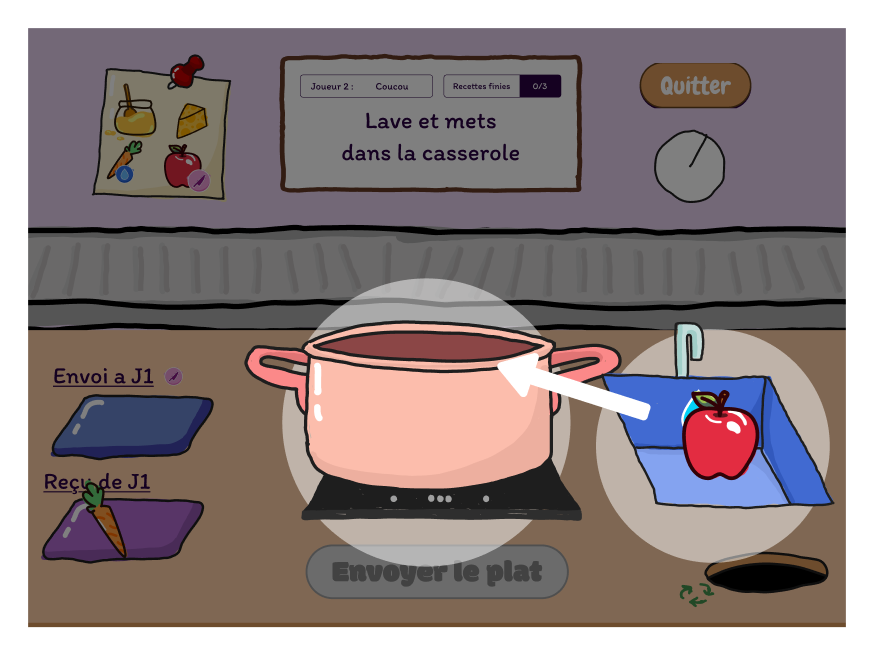
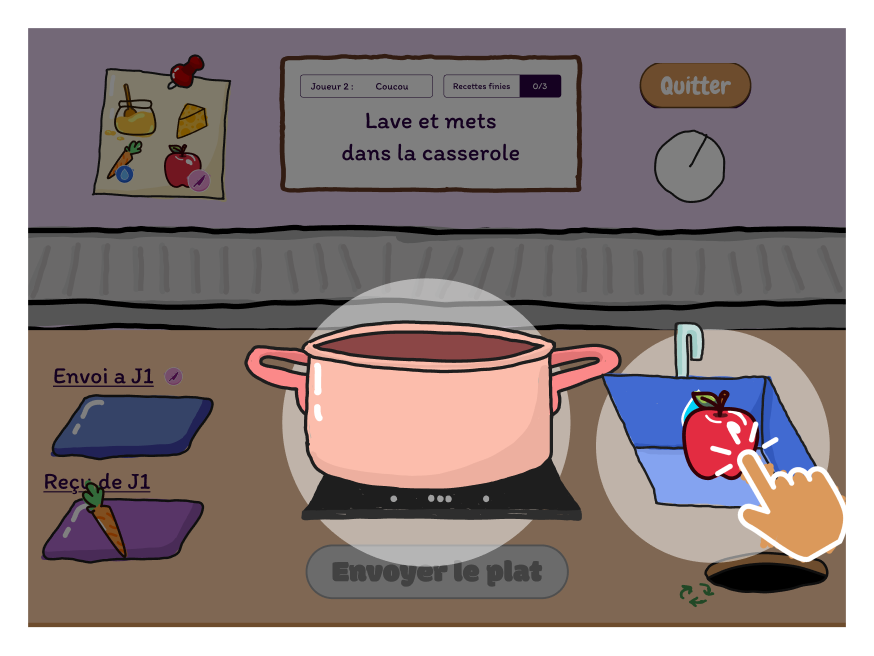
edit + add page tuto

Changed region(s): [[0.8032, 0.6402, 0.9886, 0.8537], [0.5561, 0.5183, 0.7414, 0.6402]]

diff --git a/public/tutosuite.html b/public/tutosuite.html
@@ -98,17 +98,27 @@
                 numSlide++;
                 console.log(numSlide);
                 image.src = "src/img/tutosuite2tableau.png";
-                textbtn.innerHTML = "Place la pomme découpée <br> dans la casserole !"
+                textbtn.innerHTML = "Clique 10 fois rapidement <br> sur la 🍏 pour la couper !"
             } else if (numSlide == 1) {
+                numSlide++;
+                console.log(numSlide);
+                image.src = "src/img/tutosuite2etdemitableau.png";
+                textbtn.innerHTML = "Place la pomme découpée sur la casserole"
+            } else if (numSlide == 2) {
                 numSlide++;
                 console.log(numSlide);
                 image.src = "src/img/tutosuite3tableau.png";
                 textbtn.innerHTML = "Glisse la 🥕 sur la plaque <br>💧 pour que le J2 la lave"
-            } else if (numSlide == 2) {
+            } else if (numSlide == 3) {
+                numSlide++;
+                console.log(numSlide);
+                image.src = "src/img/tutosuite3etdemitableau.png";
+                textbtn.innerHTML = "Ici, J2 pose l'ingrédient <br> lavé ou qui est à couper"
+            }  else if (numSlide == 4) {
                 numSlide++;
                 console.log(numSlide);
                 image.src = "src/img/tutosuite4tableau.png";
-                textbtn.innerHTML = "Si tu n'en veux, tu peux <br> ramener le 🥩 en réserve 🕳"
+                textbtn.innerHTML = "Tu peux ranger 🕳 un ingrédient si tu ne veux pas"
 
                 // ERREUUURRRR J'AI FAIT EN DOUBLE CORRIGER CELA
                 // } else if (numSlide == 3){
@@ -128,12 +138,12 @@
                 //     textbtn.innerHTML = " Envoie le 🧈 au J1 pour le <br> couper " 
 
                 // FIN DE LA PARTIE EN DOUBLE
-            } else if (numSlide == 3) {
+            } else if (numSlide == 5) {
                 numSlide++;
                 console.log(numSlide);
                 image.src = "src/img/tutosuite8tableau.png";
                 textbtn.innerHTML = " Une fois la recette finie tu <br> peux 'Envoyer le plat' "
-            } else if (numSlide == 4) {
+            } else if (numSlide == 6) {
                 numSlide++;
                 console.log(numSlide);
                 textbtn.innerHTML = ""
@@ -156,7 +166,7 @@
                 mylittleimg1.classList.remove("clean");
                 const imgombre = document.getElementById("myImage")
                 imgombre.style.filter = "brightness(0.5)";
-            } else if (numSlide == 5) { //PARTIE EN DOUBLE ICI SUPPRIMER LA OU AUTRE
+            } else if (numSlide == 7) { //PARTIE EN DOUBLE ICI SUPPRIMER LA OU AUTRE
                 numSlide++;
                 console.log(numSlide);
                 image.src = "src/img/tutosuite5tableau.png";
@@ -181,25 +191,31 @@
                 mylittleimg1.classList.add("clean");
                 const imgombre = document.getElementById("myImage")
                 imgombre.style.filter = "brightness(1)";
-            } else if (numSlide == 6) {
+            } else if (numSlide == 8) {
                 numSlide++;
                 console.log(numSlide);
                 image.src = "src/img/tutosuite6tableau.png";
-                textbtn.innerHTML = "Tape pour laver et envoie <br> la 🍏 en cuisine"
+                textbtn.innerHTML = "Clique 10 fois rapidement <br> sur la 🍏 pour la laver !"
                 textTitre.innerHTML = "Tutoriel - Joueur 2";
-            } else if (numSlide == 7) {
+            } else if (numSlide == 9) {
+                numSlide++;
+                console.log(numSlide);
+                image.src = "src/img/tutosuite6etdemitableau.png";
+                textbtn.innerHTML = "Place la pomme lavée <br> dans la casserole !"
+                textTitre.innerHTML = "Tutoriel - Joueur 2";
+            } else if (numSlide == 10) {
                 numSlide++;
                 console.log(numSlide);
                 image.src = "src/img/tutosuite7tableau.png";
                 textbtn.innerHTML = "Enleve le 🧈 au J1 pour le <br> couper"
                 textTitre.innerHTML = "Tutoriel - Joueur 2";
-            } else if (numSlide == 8) {
+            } else if (numSlide == 11) {
                 numSlide++;
                 console.log(numSlide);
                 image.src = "src/img/tutosuite8tableau.png";
                 textbtn.innerHTML = "Une fois la recette finie tu <br> peux 'Envoyer le plat' "
                 textTitre.innerHTML = "Tutoriel - Joueur 2"; // FIN DE LA PARTIE EN DOUBLE 
-            } else if (numSlide == 9) {
+            } else if (numSlide == 12) {
                 numSlide++;
                 console.log(numSlide);
                 textbtn.innerHTML = ""
@@ -244,18 +260,28 @@
                 numSlide--;
                 console.log(numSlide);
                 image.src = "src/img/tutosuite2tableau.png";
-                textbtn.innerHTML = "Place la pomme découpée <br> dans la casserole !"
+                textbtn.innerHTML = "Clique 10 fois rapidement <br> sur la 🍏 pour la couper !"
             } else if (numSlide == 3) {
+                numSlide--;
+                console.log(numSlide);
+                image.src = "src/img/tutosuite2etdemitableau.png";
+                textbtn.innerHTML = "Place la pomme découpée <br> dans la casserole !"
+            } else if (numSlide == 4) {
                 numSlide--;
                 console.log(numSlide);
                 image.src = "src/img/tutosuite3tableau.png";
                 textbtn.innerHTML = "Glisse la 🥕 sur la plaque <br>💧 pour que le J2 la lave"
-            } else if (numSlide == 4) {
+            } else if (numSlide == 5) {
+                numSlide--;
+                console.log(numSlide);
+                image.src = "src/img/tutosuite3etdemitableau.png";
+                textbtn.innerHTML = "Ici, J2 pose l'ingrédient <br> lavé ou qui est à couper"
+            } else if (numSlide == 6) {
                 numSlide--;
                 console.log(numSlide);
                 image.src = "src/img/tutosuite4tableau.png";
-                textbtn.innerHTML = "Si tu n'en veux, tu peux <br> ramener le 🥩 en réserve 🕳"
-            } else if (numSlide == 5) {
+                textbtn.innerHTML = "Tu peux ranger 🕳 un ingrédient si tu ne veux pas"
+            } else if (numSlide == 7) {
                 numSlide--;
                 console.log(numSlide);
                 image.src = "src/img/tutosuite9tableau.png";
@@ -276,17 +302,23 @@
                 const imgombre = document.getElementById("myImage")
                 imgombre.style.filter = "brightness(0.5)";
                 // Y'A PAS DE 6 PSK C LA SCENE DE TRANSITION AVANT MAIS SI BESOIN IL FAUT FAIRE LA PAGE 6 ICI
-            } else if (numSlide == 7) {
+            } else if (numSlide == 9) {
                 numSlide--;
                 console.log(numSlide);
                 image.src = "src/img/tutosuite5tableau.png";
                 textbtn.innerHTML = "Glisse 🍏 dans le lavabo 💧"
-            } else if (numSlide == 8) {
+            } else if (numSlide == 10) {
                 numSlide--;
                 console.log(numSlide);
                 image.src = "src/img/tutosuite6tableau.png";
                 textbtn.innerHTML = "Tape pour laver et envoie <br> la 🍏 en cuisine"
-            } else if (numSlide == 9) {
+            } else if (numSlide == 11) {
+                numSlide--;
+                console.log(numSlide);
+                image.src = "src/img/tutosuite6etdemitableau.png";
+                textbtn.innerHTML = "Place la pomme lavée <br> dans la casserole !"
+                textTitre.innerHTML = "Tutoriel - Joueur 2";
+            } else if (numSlide == 12) {
                 numSlide--;
                 console.log(numSlide);
                 image.src = "src/img/tutosuite7tableau.png";
